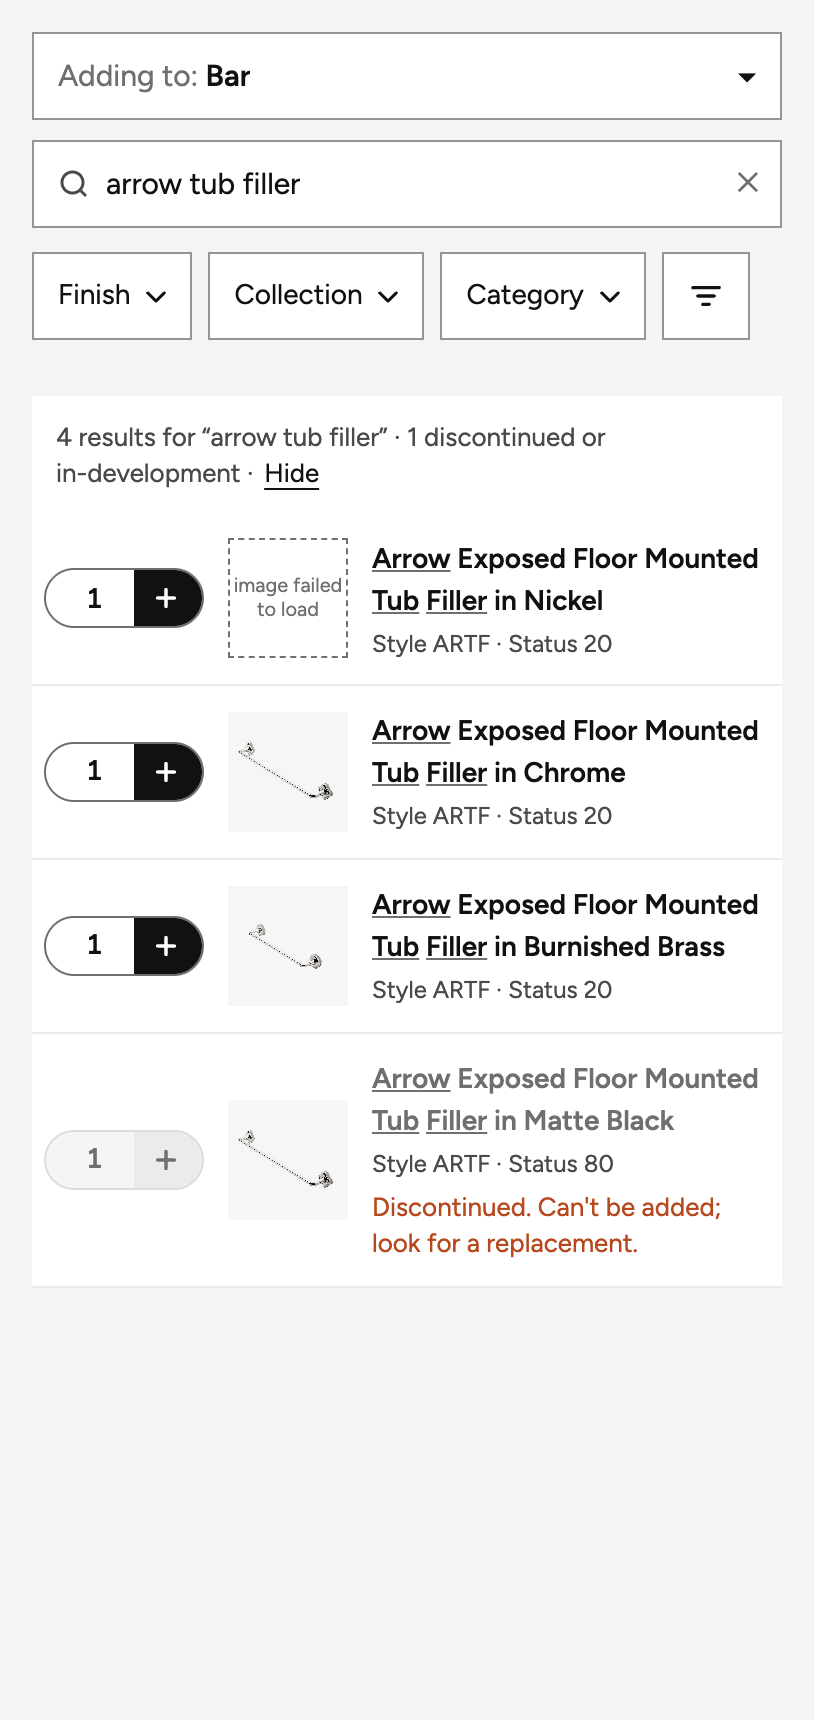
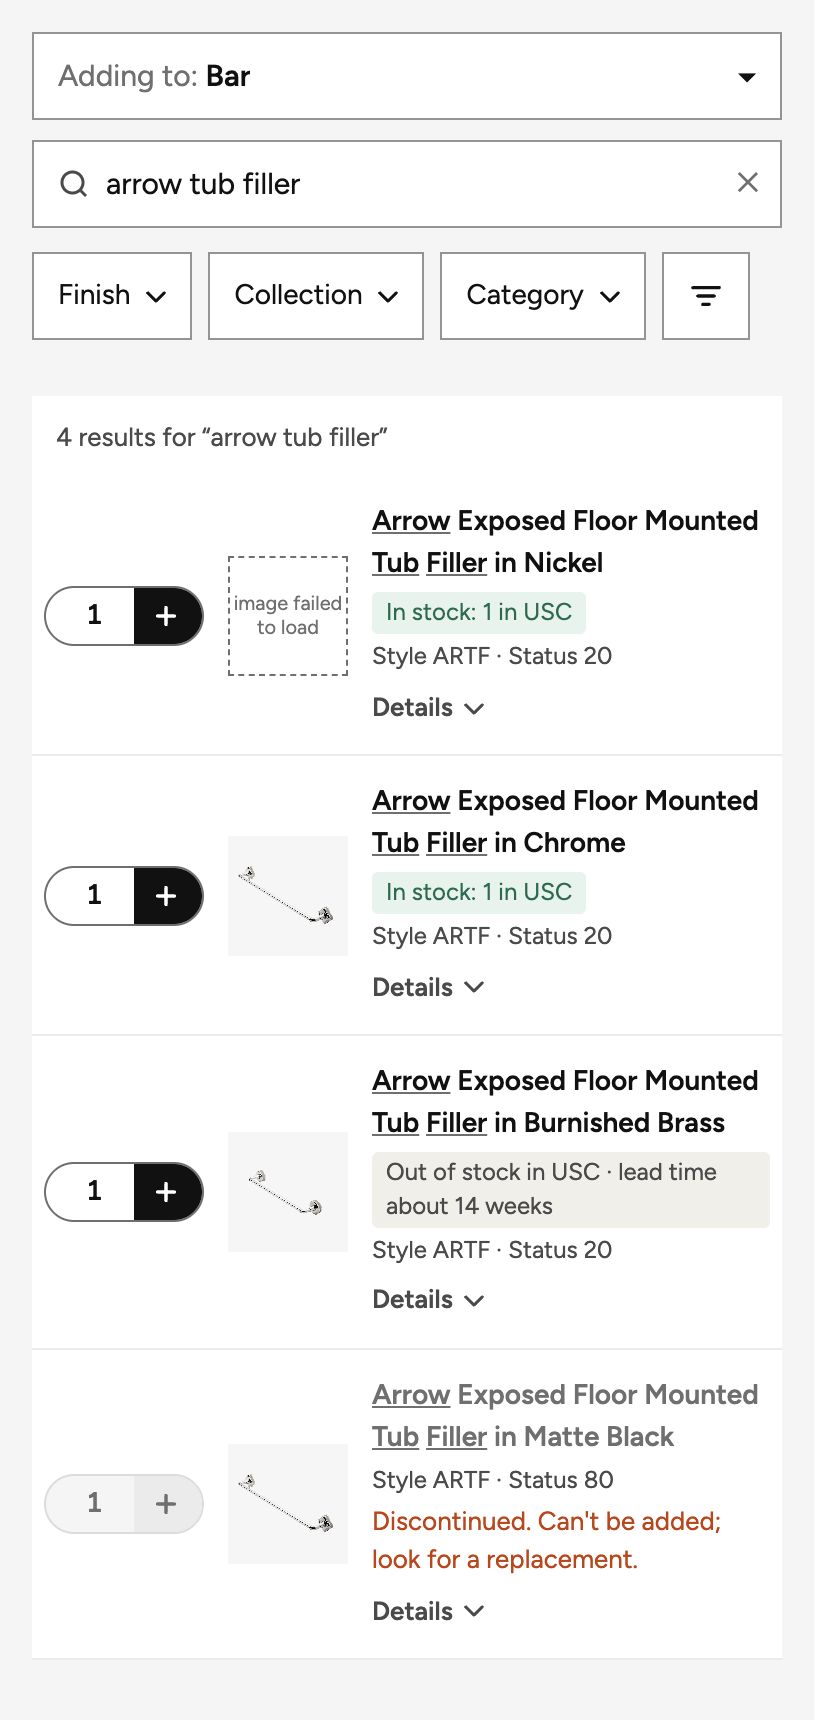
Fix "Show them" grammar; retake S-06 and S-08 screenshots
- No-results "Show them" now reads "1 discontinued or in-development item
  matches" for one item and "items match" for more.
- Retake S-06 and the two S-08 spec screenshots now that the results count
  has no Hide/Show note.

diff --git a/qom-product-search-prototype-v2.html b/qom-product-search-prototype-v2.html
@@ -1695,7 +1695,7 @@ function renderResults(){
       +(byp?` · <button type="button" class="tolink" id="finOnly">Only ${esc(orList(finSel))}</button>`:others?` · <button type="button" class="tolink" id="finOthers">Show other finishes (${others})</button>`:""); };
   if(!list.length){
     cnt.textContent="";
-    box.innerHTML=`<div class="state"><h3>No products match “${esc(q)}”${anyFilter?" with these filters":""}</h3>Try one of these:<ul><li>Check the spelling, or use fewer words</li>${anyFilter?'<li>Clear a filter; finish filters narrow the most</li>':''}<li>Enter the item number if you have it</li>${hiddenDisc?`<li>${hiddenDisc} discontinued or in-development item${hiddenDisc>1?'s':''} match. <button type="button" class="chip" id="showDiscLink">Show them</button></li>`:''}</ul><span class="fr">FR-5</span></div>`; cnt.innerHTML=others?applied(0):"";
+    box.innerHTML=`<div class="state"><h3>No products match “${esc(q)}”${anyFilter?" with these filters":""}</h3>Try one of these:<ul><li>Check the spelling, or use fewer words</li>${anyFilter?'<li>Clear a filter; finish filters narrow the most</li>':''}<li>Enter the item number if you have it</li>${hiddenDisc?`<li>${hiddenDisc} discontinued or in-development item${hiddenDisc>1?'s match':' matches'}. <button type="button" class="chip" id="showDiscLink">Show them</button></li>`:''}</ul><span class="fr">FR-5</span></div>`; cnt.innerHTML=others?applied(0):"";
     return;
   }
   const pages=Math.ceil(list.length/PAGE); S.page=Math.min(Math.max(1,S.page),pages); const from=(S.page-1)*PAGE, shown=list.slice(from,from+PAGE);
